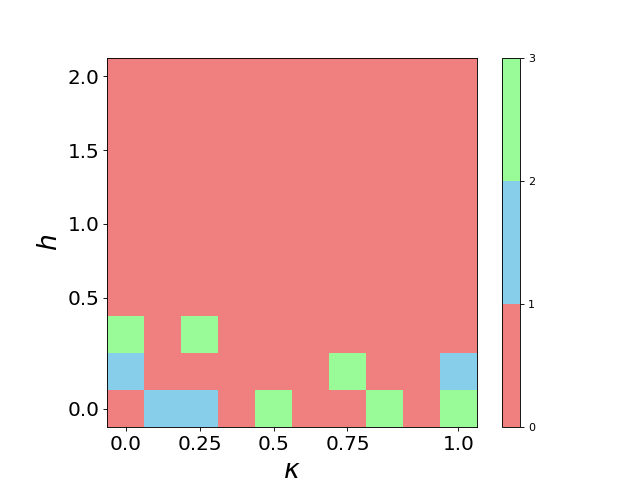
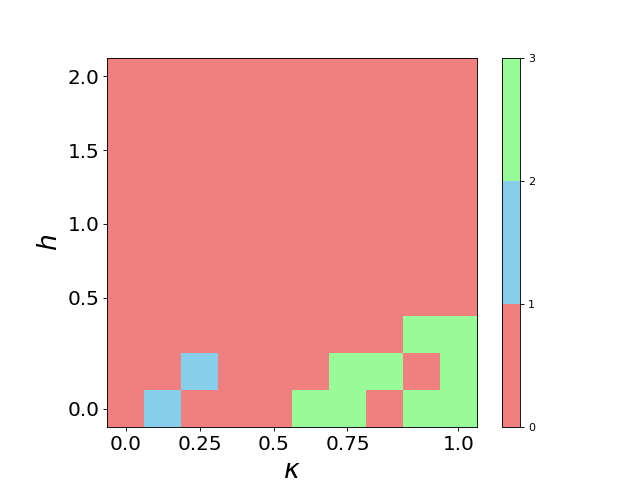
Fixed algorithm

Changed region(s): [[0.375, 0.6562, 0.75, 0.9062], [0.2812, 0.6562, 0.3438, 0.9062], [0.1562, 0.6562, 0.25, 0.8125]]

diff --git a/src/Clustering/ClusterVisualization.py b/src/Clustering/ClusterVisualization.py
@@ -44,11 +44,11 @@ def visualize_clusters(clusters: List[List], hamiltonians: qml.ops.qubit.hamilto
     plt.show()
 
 
-# ClusteringVQEObj = ClusteringVQE("../../data/vqes/ANNNI/N12n100", 3, 5)
-# ClusteringVQEObj.cluster()
-# ClusteringVQEObj.save(
-#    "../../data/clustering/N" + str(ClusteringVQEObj.vqe.Hs.N) + "n" + str(
-#        int(jnp.sqrt(ClusteringVQEObj.vqe.Hs.n_states))))
+ClusteringVQEObj = ClusteringVQE("../../data/vqes/ANNNI/N4n100", 3, 5)
+ClusteringVQEObj.cluster()
+ClusteringVQEObj.save(
+   "../../data/clustering/N" + str(ClusteringVQEObj.vqe.Hs.N) + "n" + str(
+       int(jnp.sqrt(ClusteringVQEObj.vqe.Hs.n_states))))
 
-ClusteringVQEObj = load("../../data/clustering/N12n100")
+# ClusteringVQEObj = load("../../data/clustering/N12n100")
 visualize_clusters(ClusteringVQEObj.clusters, ClusteringVQEObj.vqe.Hs)

diff --git a/src/Clustering/Clustering.py b/src/Clustering/Clustering.py
@@ -54,8 +54,8 @@ class ClusteringVQE:
 
         @qml.qnode(self.vqe.device, interface="jax")
         def fidelity(params_phi, params_psi):
-            qml.adjoint(self.vqe.circuit)(params_phi)
             self.vqe.circuit(params_psi)
+            qml.adjoint(self.vqe.circuit)(params_phi)
             return qml.probs(wires=[i for i in range(self.vqe.Hs.N)])  # Only interested in |000...0>
 
         self.v_fidelity = jax.vmap(
